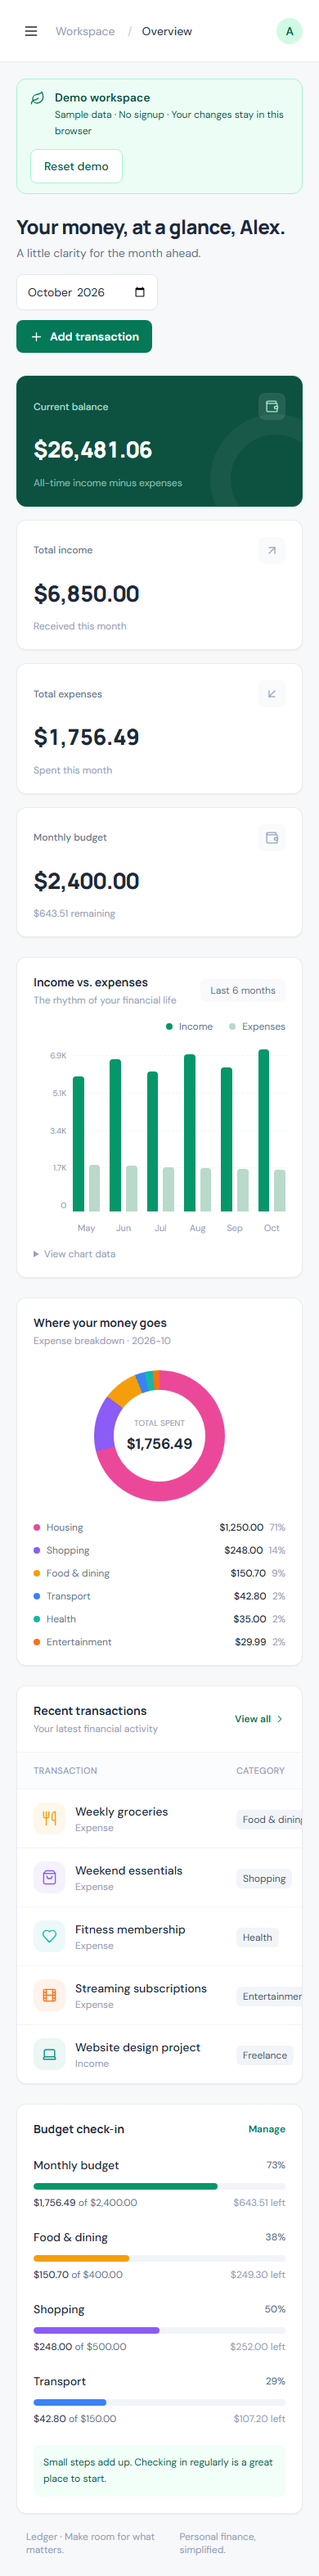
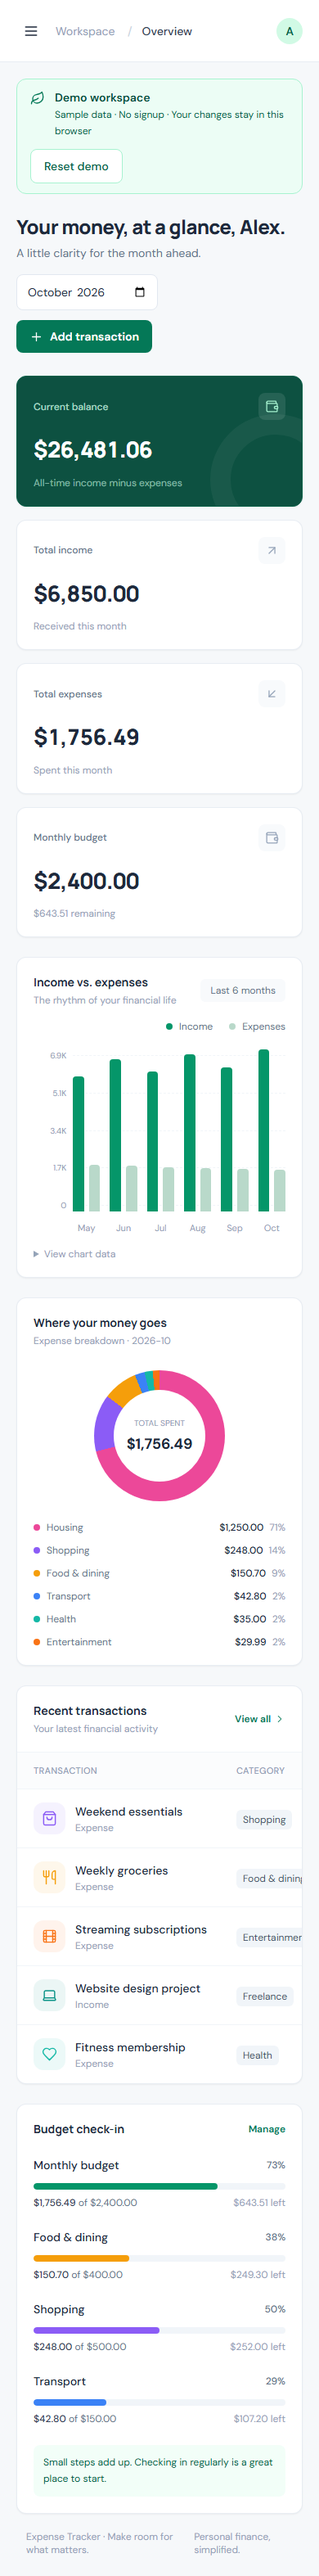
Rename branding to Expense Tracker and document live demo

diff --git a/tests/e2e/workspace.spec.ts b/tests/e2e/workspace.spec.ts
@@ -15,7 +15,7 @@ test('real Supabase workspace: CRUD, budgets, export, receipts, and account isol
   expect(url).toMatch(/^http:\/\/(127\.0\.0\.1|localhost):54321$/)
   test.setTimeout(120000)
   const admin = createClient(url, adminKey, { auth: { persistSession: false } })
-  const password = `Ledger-${crypto.randomUUID()}`
+  const password = `Expense Tracker-${crypto.randomUUID()}`
   const email = `portfolio-${Date.now()}@example.test`
   const created = await admin.auth.admin.createUser({
     email,
@@ -244,7 +244,7 @@ test('real Supabase workspace: CRUD, budgets, export, receipts, and account isol
     ).toHaveCount(0)
     const download = page.waitForEvent('download')
     await page.getByRole('button', { name: 'Export CSV' }).click()
-    expect((await download).suggestedFilename()).toContain('ledger-')
+    expect((await download).suggestedFilename()).toContain('expense-tracker-')
     await page.setViewportSize({ width: 390, height: 844 })
     await page.goto('/')
     await expect(

diff --git a/layouts/auth.vue b/layouts/auth.vue
@@ -4,7 +4,7 @@
       class="relative hidden flex-col justify-between overflow-hidden bg-[#073d31] p-14 text-white lg:flex"
     >
       <NuxtLink to="/login" class="flex items-center gap-2 text-2xl font-bold"
-        ><UiAppIcon name="leaf" :size="30" />ledger.</NuxtLink
+        ><UiAppIcon name="leaf" :size="30" />Expense Tracker</NuxtLink
       >
       <div class="relative z-10 max-w-lg">
         <p
@@ -50,7 +50,7 @@
         <div
           class="mb-10 flex items-center gap-2 text-xl font-bold text-emerald-800 lg:hidden"
         >
-          <UiAppIcon name="leaf" />ledger.
+          <UiAppIcon name="leaf" />Expense Tracker
         </div>
         <slot />
       </div>

diff --git a/pages/transactions/index.vue b/pages/transactions/index.vue
@@ -55,7 +55,7 @@ async function saved() {
   await load()
   success.value = 'Transaction added.'
 }
-useHead({ title: 'Transactions · Ledger' })
+useHead({ title: 'Transactions · Expense Tracker' })
 </script>
 <template>
   <div>
@@ -163,8 +163,8 @@ useHead({ title: 'Transactions · Ledger' })
       />
     </div>
     <p class="mt-4 text-xs text-slate-400">
-      Your ledger is up to date as of {{ localDate() }}. Amounts use your
-      profile currency.
+      Your transaction history is up to date as of {{ localDate() }}. Amounts
+      use your profile currency.
     </p>
     <UiBaseModal
       v-if="showForm"

diff --git a/tests/e2e/demo.spec.ts b/tests/e2e/demo.spec.ts
@@ -99,7 +99,7 @@ test('public demo persists edits, isolates visitors, exports and resets without 
   await page.goto('/reports')
   const download = page.waitForEvent('download')
   await page.getByRole('button', { name: 'Export CSV' }).click()
-  expect((await download).suggestedFilename()).toContain('ledger-')
+  expect((await download).suggestedFilename()).toContain('expense-tracker-')
   await page.getByRole('button', { name: 'Reset demo', exact: true }).click()
   await page
     .getByRole('dialog')

diff --git a/components/AppSidebar.vue b/components/AppSidebar.vue
@@ -20,8 +20,8 @@ const demo = useDemoMode()
       @click="emit('navigate')"
       ><span class="rounded-xl bg-emerald-700 p-2 text-white"
         ><UiAppIcon name="leaf" :size="23" /></span
-      ><span class="text-2xl font-bold tracking-tight"
-        >ledger<span class="text-emerald-600">.</span></span
+      ><span class="text-lg font-bold tracking-tight"
+        >Expense Tracker</span
       ></NuxtLink
     >
     <p

diff --git a/pages/budgets.vue b/pages/budgets.vue
@@ -211,7 +211,7 @@ async function remove() {
     ><UiConfirmDialog
       v-if="deleting"
       title="Delete budget?"
-      description="This removes the spending limit. Your transactions will stay in your ledger."
+      description="This removes the spending limit. Your transactions will remain unchanged."
       :pending="mutation.pending.value"
       :error="mutation.error.value"
       @close="deleting = undefined"

diff --git a/tests/finance.test.ts b/tests/finance.test.ts
@@ -21,7 +21,7 @@ describe('financial calculations', () => {
       ]),
     ).toEqual({ income: 0.3, expense: 10 })
   })
-  it('handles empty ledgers', () =>
+  it('handles empty transaction histories', () =>
     expect(totals([])).toEqual({ income: 0, expense: 0 }))
   it('reports overspending without hiding the excess', () =>
     expect(budgetProgress(100, 125)).toEqual({

diff --git a/components/AuthForm.vue b/components/AuthForm.vue
@@ -110,7 +110,7 @@ async function submit() {
       </button>
     </form>
     <p class="muted mt-7 text-center">
-      {{ register ? 'Already have an account?' : 'New to Ledger?' }}
+      {{ register ? 'Already have an account?' : 'New to Expense Tracker?' }}
       <NuxtLink
         :to="register ? '/login' : '/register'"
         class="font-semibold text-emerald-700"

diff --git a/layouts/default.vue b/layouts/default.vue
@@ -55,7 +55,7 @@ onMounted(() => {
       <footer
         class="mx-auto flex max-w-[1440px] justify-between px-8 pb-6 text-xs text-slate-400"
       >
-        <span>Ledger · Make room for what matters.</span
+        <span>Expense Tracker · Make room for what matters.</span
         ><span>Personal finance, simplified.</span>
       </footer>
     </div>

diff --git a/pages/reports.vue b/pages/reports.vue
@@ -109,7 +109,7 @@ async function exportCsv() {
     )
     const link = document.createElement('a')
     link.href = url
-    link.download = `ledger-${applied.value.start}-${applied.value.end}.csv`
+    link.download = `expense-tracker-${applied.value.start}-${applied.value.end}.csv`
     link.click()
     URL.revokeObjectURL(url)
   }, 'CSV exported.')

diff --git a/nuxt.config.ts b/nuxt.config.ts
@@ -10,7 +10,7 @@ export default defineNuxtConfig({
   app: {
     head: {
       link: [{ rel: 'icon', type: 'image/svg+xml', href: '/favicon.svg' }],
-      title: 'Ledger · Expense Tracker',
+      title: 'Expense Tracker',
       meta: [
         {
           name: 'description',

diff --git a/pages/register.vue b/pages/register.vue
@@ -1,5 +1,5 @@
 <script setup lang="ts">
 definePageMeta({ layout: 'auth' })
-useHead({ title: 'Create account · Ledger' })
+useHead({ title: 'Create account · Expense Tracker' })
 </script>
 <template><AuthForm register /></template>
